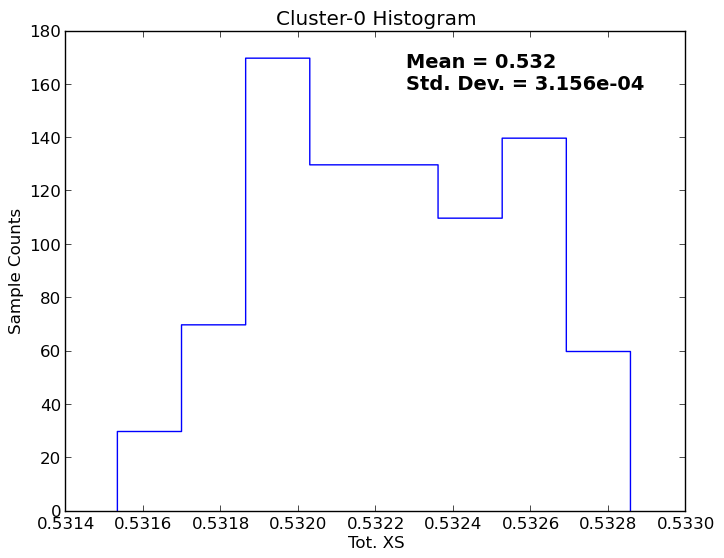
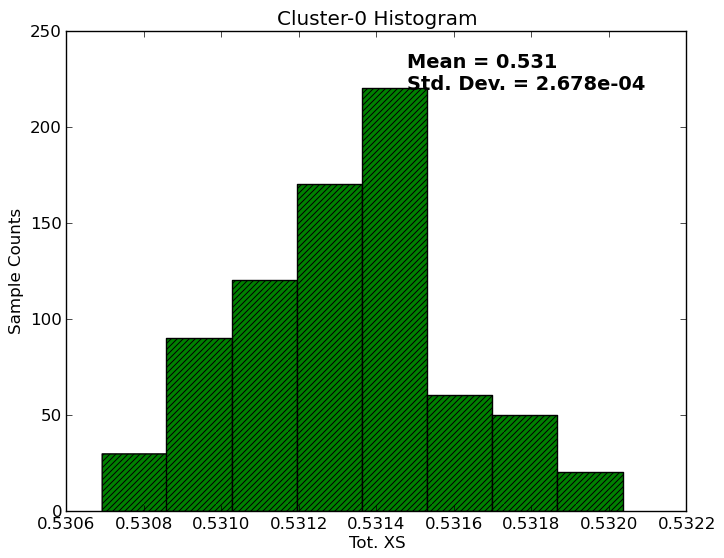
Removed extraneous pngs from process/rms-plots and updated plot-cluster-variance to use hatched pattern for histograms

diff --git a/plot-cluster-variance.py b/plot-cluster-variance.py
@@ -84,7 +84,8 @@ for c in range(num_clusters):
     print '%d\t\t%d\t\t%f\t\t%f' % (c, num_samples, mean, std_dev)
     
     fig = plt.figure()
-    n, bins, patches = plt.hist(cluster_targets, 8, histtype='step')
+    n, bins, patches = plt.hist(cluster_targets, 8, color='green', \
+                                histtype='bar', hatch='//', edgecolor='black')
 
     # Annotate the plot and save it to /cluster/histograms
     plt.xlabel('Tot. XS')
